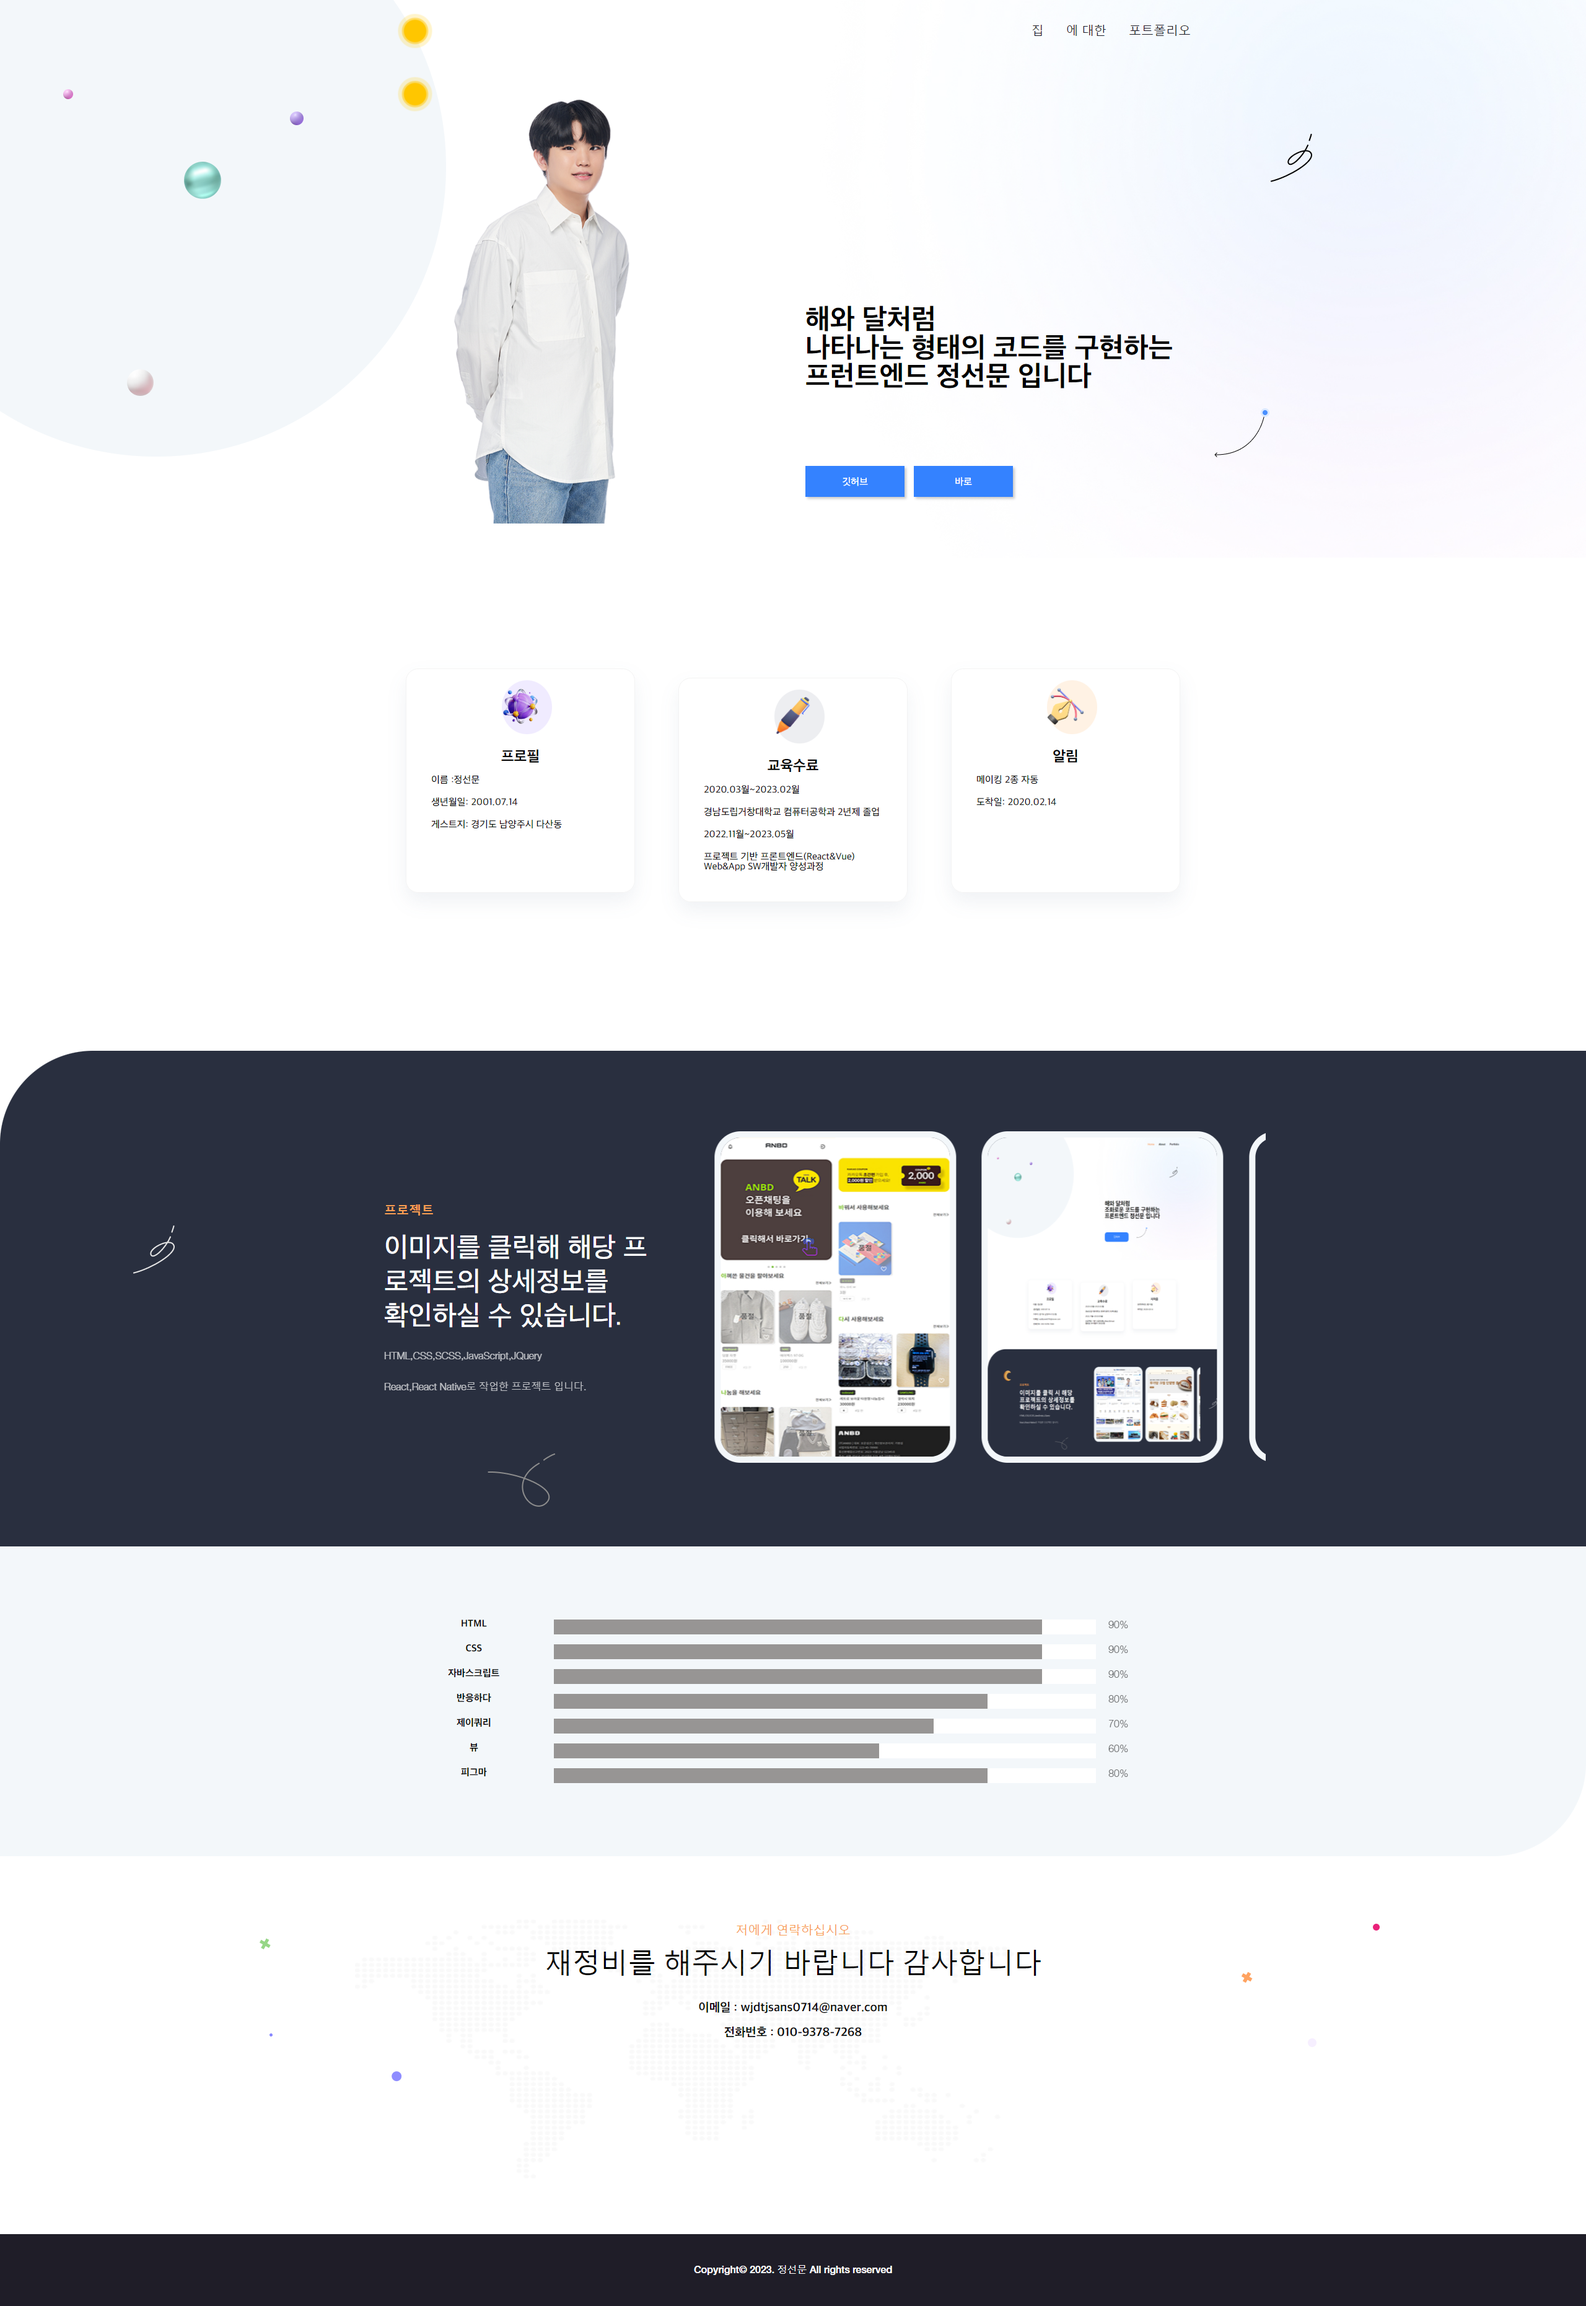
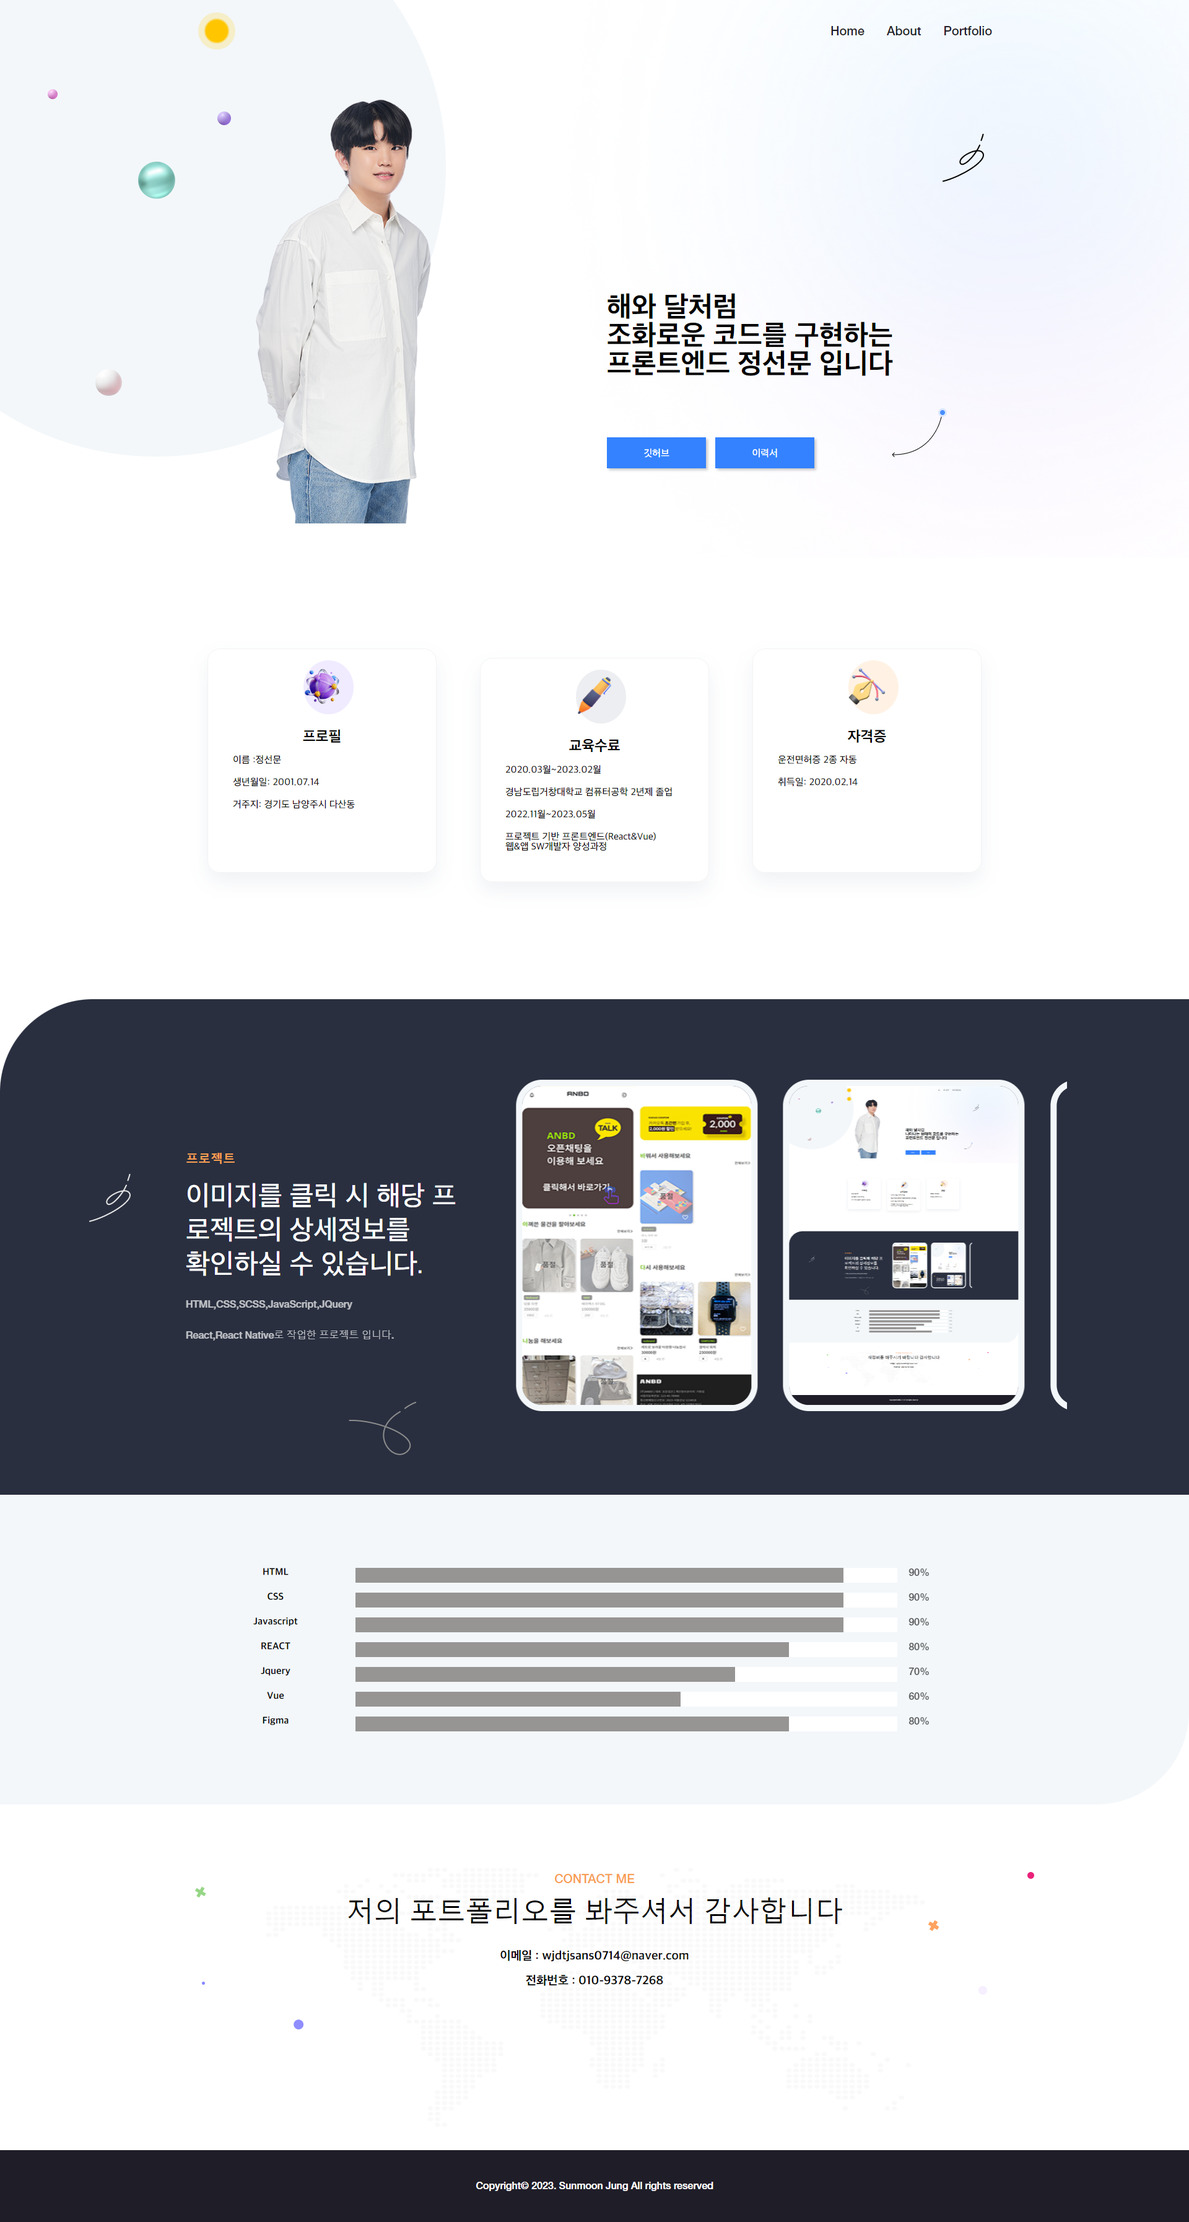
비주얼 수정

diff --git a/src/App.js b/src/App.js
@@ -98,7 +98,7 @@ function App() {
             <p className='h1_title'>해와 달처럼<br></br> 조화로운 코드를 구현하는<br/> 프론트엔드 정선문 입니다<p/> </p>
             <div className="main_button_box">
             <a href='https://github.com/jungsm?tab=repositories'><button className='button'><span className='kr_text'>깃허브</span></button></a>
-            <a href='https://drive.google.com/file/d/1scWpORv5fb2kWsx7a1d_UnIs1qIAzMvg/view'><button className='button'><span className='kr_text'>이력서</span></button></a>
+            <a href='https://drive.google.com/file/d/18IpGm4ca2rx1KWCgeFZaJMLOiXLjhBK8/view?usp=share_link'><button className='button'><span className='kr_text'>이력서</span></button></a>
             </div>
         </div>
         </div>  
@@ -158,7 +158,7 @@ function App() {
         <div className="project_text_box">
           <div className="project_text">
             <span className="h3_text">프로젝트</span>
-          <span className="kr_text4">이미지를 클릭 시 해당 프로젝트의 상세정보를<br/> 확인하실 수 있습니다.</span> <br/>
+          <span className="kr_text4">이미지를 클릭 시 해당 <br/>프로젝트의 상세정보를<br/> 확인하실 수 있습니다.</span> <br/>
           <span className="h4_text">HTML,CSS,SCSS,JavaScript,JQuery<br/>React,React Native로 작업한 프로젝트 입니다.</span>
           <ul className="arrow_box">
             <div className='swiper-button-prev'></div>

diff --git a/src/App.css b/src/App.css
@@ -174,8 +174,7 @@
 .img_banner{
   width: 43%;
     position: absolute;
-    /* height: 100%; */
-    left: 17%;
+    left: 30%;
     top: 10%;
 }
 .main_banner_right{
@@ -586,7 +585,7 @@ background-color: #ffffff;
 }
 
 .fill {
-  background-color:#979594;
+  background-color:#3482ff;
   height: 100%;
 }
 
